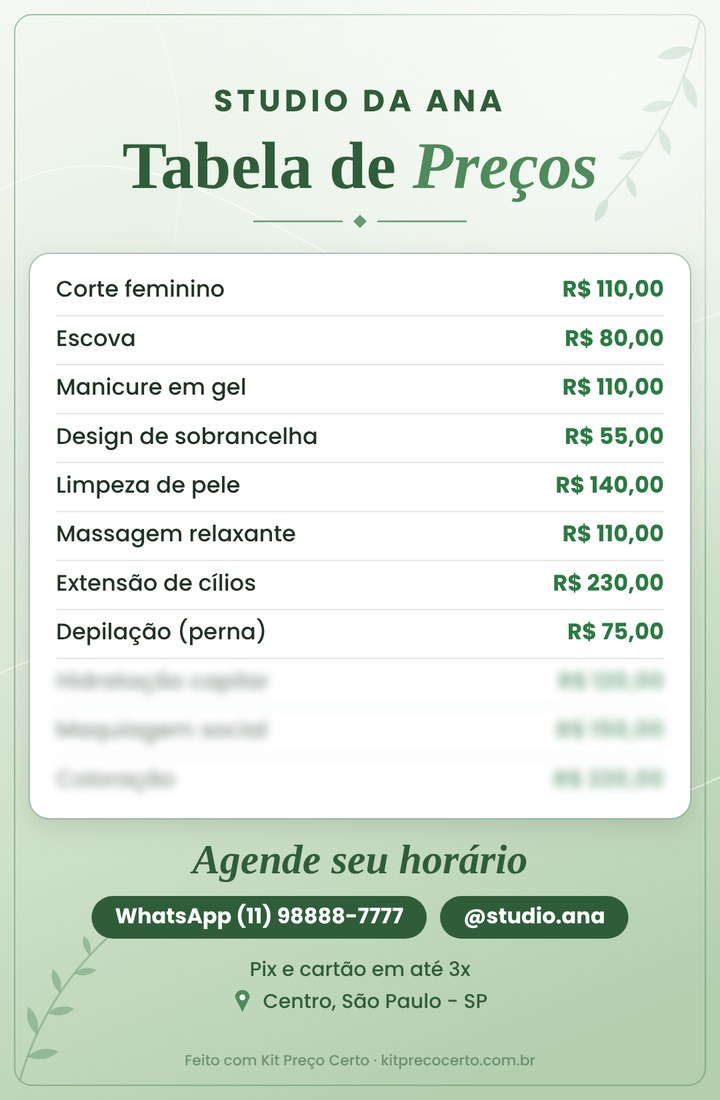
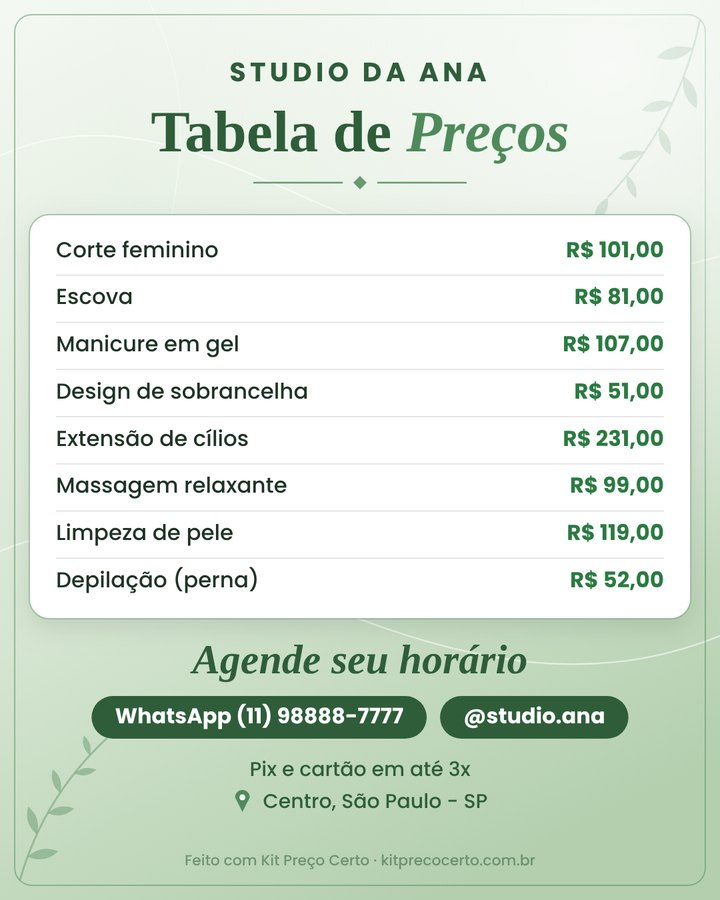
Tabelas de exemplo geradas pela propria calculadora (formato Feed), sem servicos borrados
Claude-Session: https://claude.ai/code/session_01VVXSWQenri3WwETC67snQx

diff --git a/index.html b/index.html
@@ -6,7 +6,7 @@
 <link rel="icon" type="image/png" href="favicon.png"><link rel="apple-touch-icon" href="apple-touch-icon.png">
 <link rel="preconnect" href="https://fonts.googleapis.com"><link rel="preconnect" href="https://fonts.gstatic.com" crossorigin>
 <link href="https://fonts.googleapis.com/css2?family=Fredoka:wght@600;700&family=Poppins:wght@400;500;600;700;800&family=Dancing+Script:wght@700&display=swap" rel="stylesheet">
-<link rel="stylesheet" href="style.css?v=127">
+<link rel="stylesheet" href="style.css?v=128">
 <script>document.documentElement.className+=' js';</script><script>try{if(/[?&]ignorar=1/.test(location.search))localStorage.setItem("umami.disabled","1");if(/[?&]ignorar=0/.test(location.search))localStorage.removeItem("umami.disabled")}catch(e){}</script>
 <script defer src="https://stats.kitprecocerto.com.br/script.js" data-website-id="849c7c60-d34a-4f54-abd3-b72d5e8b705a"></script>
 </head><body>
@@ -94,7 +94,7 @@
     <div class="deliver">
     <figure class="hero-tab" id="tp" aria-label="Exemplos da imagem da tabela de preços que a calculadora gera (valores de exemplo)">
       <p class="ex-bar">✨ Exemplo: coloque os <b>seus</b> serviços</p>
-      <div class="tp-stage"><img src="tab-rosa.jpg?v=4" width="720" height="1100" alt="Tabela de preços no estilo Rosa, com serviços e valores de exemplo" class="on"><img src="tab-vinho.jpg?v=4" width="720" height="1100" alt="Tabela de preços no estilo Vinho e dourado, com serviços e valores de exemplo" class="" loading="lazy"><img src="tab-preto.jpg?v=4" width="720" height="1100" alt="Tabela de preços no estilo Preto e dourado, com serviços e valores de exemplo" class="" loading="lazy"><img src="tab-lilas.jpg?v=4" width="720" height="1100" alt="Tabela de preços no estilo Lilás, com serviços e valores de exemplo" class="" loading="lazy"><img src="tab-verde.jpg?v=4" width="720" height="1100" alt="Tabela de preços no estilo Verde sálvia, com serviços e valores de exemplo" class="" loading="lazy"><img src="tab-nude.jpg?v=4" width="720" height="1100" alt="Tabela de preços no estilo Nude, com serviços e valores de exemplo" class="" loading="lazy"></div>
+      <div class="tp-stage"><img src="tab-rosa.jpg?v=5" width="720" height="900" alt="Tabela de preços no estilo Rosa, com serviços e valores de exemplo" class="on"><img src="tab-vinho.jpg?v=5" width="720" height="900" alt="Tabela de preços no estilo Vinho e dourado, com serviços e valores de exemplo" class="" loading="lazy"><img src="tab-preto.jpg?v=5" width="720" height="900" alt="Tabela de preços no estilo Preto e dourado, com serviços e valores de exemplo" class="" loading="lazy"><img src="tab-lilas.jpg?v=5" width="720" height="900" alt="Tabela de preços no estilo Lilás, com serviços e valores de exemplo" class="" loading="lazy"><img src="tab-verde.jpg?v=5" width="720" height="900" alt="Tabela de preços no estilo Verde sálvia, com serviços e valores de exemplo" class="" loading="lazy"><img src="tab-nude.jpg?v=5" width="720" height="900" alt="Tabela de preços no estilo Nude, com serviços e valores de exemplo" class="" loading="lazy"></div>
       <div class="tp-dots" role="radiogroup" aria-label="Escolha o estilo da tabela"><span class="tp-d on" role="radio" tabindex="0" aria-checked="true" aria-label="Estilo Rosa" data-i="0" style="background:linear-gradient(135deg,#FBD3E2,#E91E78)"></span><span class="tp-d" role="radio" tabindex="0" aria-checked="false" aria-label="Estilo Vinho e dourado" data-i="1" style="background:linear-gradient(135deg,#8a1a50,#f6d27a)"></span><span class="tp-d" role="radio" tabindex="0" aria-checked="false" aria-label="Estilo Preto e dourado" data-i="2" style="background:linear-gradient(135deg,#211a1f,#e7c27d)"></span><span class="tp-d" role="radio" tabindex="0" aria-checked="false" aria-label="Estilo Lilás" data-i="3" style="background:linear-gradient(135deg,#E5CBF2,#8e44ad)"></span><span class="tp-d" role="radio" tabindex="0" aria-checked="false" aria-label="Estilo Verde sálvia" data-i="4" style="background:linear-gradient(135deg,#D8E7D4,#4f8a5b)"></span><span class="tp-d" role="radio" tabindex="0" aria-checked="false" aria-label="Estilo Nude" data-i="5" style="background:linear-gradient(135deg,#F1DEC8,#b0693f)"></span></div>
       <p class="tp-name" id="tpn">Estilo: Rosa</p>
       <figcaption><b>Serviços de exemplo.</b> Os seus entram na calculadora.</figcaption>
@@ -123,7 +123,7 @@
       <div class="duo-ic"><svg viewBox="0 0 24 24" fill="none" stroke="currentColor" stroke-width="1.8" stroke-linecap="round" stroke-linejoin="round"><rect x="7" y="2.5" width="10" height="19" rx="2.5"/><path d="M11 18.5h2"/></svg></div>
       <h3>Calculadora no celular</h3>
       <p>Descubra o preço certo de cada serviço e transforme em uma tabela bonita, pronta para divulgar.</p>
-      <div class="duo-thumbs" aria-hidden="true"><img src="tab-rosa.jpg?v=4" width="720" height="1100" alt="" loading="lazy"><img src="tab-vinho.jpg?v=4" width="720" height="1100" alt="" loading="lazy"><img src="tab-nude.jpg?v=4" width="720" height="1100" alt="" loading="lazy"><span>6 estilos de cor</span></div>
+      <div class="duo-thumbs" aria-hidden="true"><img src="tab-rosa.jpg?v=5" width="720" height="900" alt="" loading="lazy"><img src="tab-vinho.jpg?v=5" width="720" height="900" alt="" loading="lazy"><img src="tab-nude.jpg?v=5" width="720" height="900" alt="" loading="lazy"><span>6 estilos de cor</span></div>
       <ul>
         <li>Calcula o preço de cada serviço, com lucro</li>
         <li>Você escolhe a cor e coloca o seu nome, Instagram e WhatsApp</li>

diff --git a/style.css b/style.css
@@ -689,7 +689,7 @@ button:not(.peek-tabs button):not(.peek-tabs *):active,.btn:not(.s):not(.o):not(
 
 /* ===== v28: carrossel de estilos da tabela ===== */
 .hero-tab{max-width:320px;padding-bottom:4px}
-.tp-stage{position:relative;aspect-ratio:720/1100;background:#fde7f0}
+.tp-stage{position:relative;aspect-ratio:720/900;background:#fde7f0}
 .tp-stage img{position:absolute;inset:0;width:100%;height:100%;object-fit:cover;opacity:0;transition:opacity .6s ease}
 .tp-stage img.on{opacity:1}
 .tp-dots{display:flex;justify-content:center;gap:12px;margin:12px 0 2px}
@@ -870,7 +870,7 @@ body:has(.count) .count{text-align:center}
 .ob-strip{display:flex;gap:12px;overflow-x:auto;scroll-snap-type:x mandatory;padding:4px 20px 12px;margin:0 -20px;-webkit-overflow-scrolling:touch;scrollbar-width:none}
 .ob-strip::-webkit-scrollbar{display:none}
 .ob-strip figure{flex:none;width:128px;margin:0;scroll-snap-align:center;text-align:center}
-.ob-strip img{width:128px;height:auto;aspect-ratio:720/1100;border-radius:14px;box-shadow:0 10px 22px -10px rgba(90,18,54,.55);background:#fff;display:block}
+.ob-strip img{width:128px;height:auto;aspect-ratio:720/900;border-radius:14px;box-shadow:0 10px 22px -10px rgba(90,18,54,.55);background:#fff;display:block}
 .ob-strip figcaption{margin-top:6px;font-size:.78rem;font-weight:700;color:#5a1236}
 .ob-hint{margin:0 0 14px;text-align:center;font-size:.78rem;color:#8a1a50}
 .ob-steps{list-style:none;display:grid;grid-template-columns:repeat(3,1fr);gap:8px;margin:16px 0 8px;padding:0}
@@ -882,7 +882,7 @@ body:has(.count) .count{text-align:center}
 body:has(.count) a.btn.btn.btn.ig{background:#fff!important;color:#C2185B!important;border:1.5px solid #C2185B!important;box-shadow:none!important}
 /* v45: tabela de preços em primeiro plano; bônus em destaque secundário */
 .duo-thumbs{display:flex;align-items:center;gap:0;margin:4px 0 16px}
-.duo-thumbs img{width:64px;height:auto;aspect-ratio:720/1100;border-radius:10px;box-shadow:0 8px 16px -8px rgba(90,18,54,.6);border:2px solid #fff;margin-right:-14px;background:#fff}
+.duo-thumbs img{width:64px;height:auto;aspect-ratio:720/900;border-radius:10px;box-shadow:0 8px 16px -8px rgba(90,18,54,.6);border:2px solid #fff;margin-right:-14px;background:#fff}
 .duo-thumbs img:nth-child(1){transform:rotate(-6deg)}.duo-thumbs img:nth-child(3){transform:rotate(6deg)}
 .duo-thumbs span{margin-left:28px;font-size:.8rem;font-weight:700;color:#C2185B}
 .bonus-tag{display:inline-block;margin-bottom:10px;padding:4px 14px;border-radius:999px;background:linear-gradient(180deg,#fff8e6,#f7e2ac);border:1px solid #e8c775;color:#5a1236;font-size:.72rem;font-weight:800;letter-spacing:.08em;text-transform:uppercase}

diff --git a/obrigado.html b/obrigado.html
@@ -18,12 +18,12 @@
 <p class="ob-k">Seu celular é a ferramenta principal</p>
 <h2 class="ob-h">Escolha o estilo da sua tabela de preços</h2>
 <div class="ob-strip" aria-label="6 estilos de tabela de preços (valores de exemplo)">
-<figure><img src="tab-rosa.jpg?v=4" width="720" height="1100" alt="Estilo Rosa" loading="lazy"><figcaption>Rosa</figcaption></figure>
-<figure><img src="tab-vinho.jpg?v=4" width="720" height="1100" alt="Estilo Vinho e dourado" loading="lazy"><figcaption>Vinho</figcaption></figure>
-<figure><img src="tab-preto.jpg?v=4" width="720" height="1100" alt="Estilo Preto e dourado" loading="lazy"><figcaption>Preto</figcaption></figure>
-<figure><img src="tab-lilas.jpg?v=4" width="720" height="1100" alt="Estilo Lilás" loading="lazy"><figcaption>Lilás</figcaption></figure>
-<figure><img src="tab-verde.jpg?v=4" width="720" height="1100" alt="Estilo Verde sálvia" loading="lazy"><figcaption>Verde</figcaption></figure>
-<figure><img src="tab-nude.jpg?v=4" width="720" height="1100" alt="Estilo Nude" loading="lazy"><figcaption>Nude</figcaption></figure>
+<figure><img src="tab-rosa.jpg?v=5" width="720" height="900" alt="Estilo Rosa" loading="lazy"><figcaption>Rosa</figcaption></figure>
+<figure><img src="tab-vinho.jpg?v=5" width="720" height="900" alt="Estilo Vinho e dourado" loading="lazy"><figcaption>Vinho</figcaption></figure>
+<figure><img src="tab-preto.jpg?v=5" width="720" height="900" alt="Estilo Preto e dourado" loading="lazy"><figcaption>Preto</figcaption></figure>
+<figure><img src="tab-lilas.jpg?v=5" width="720" height="900" alt="Estilo Lilás" loading="lazy"><figcaption>Lilás</figcaption></figure>
+<figure><img src="tab-verde.jpg?v=5" width="720" height="900" alt="Estilo Verde sálvia" loading="lazy"><figcaption>Verde</figcaption></figure>
+<figure><img src="tab-nude.jpg?v=5" width="720" height="900" alt="Estilo Nude" loading="lazy"><figcaption>Nude</figcaption></figure>
 </div>
 <p class="ob-hint">Deslize para ver os 6 estilos →</p>
 <a class="btn" id="gs" href="calculadora.html" target="_blank" rel="noopener">Criar a minha tabela agora</a>

diff --git a/calculadora.html b/calculadora.html
@@ -251,8 +251,8 @@ html.lock #gate{display:block}
 <li><i><svg viewBox="0 0 24 24" aria-hidden="true"><path d="M5 12.5l4.5 4.5L19 7.5"/></svg></i><span><b>O preço certo de cada serviço, com lucro</b>e aviso na hora se algum está dando prejuízo</span></li>
 <li><i><svg viewBox="0 0 24 24" aria-hidden="true"><path d="M5 12.5l4.5 4.5L19 7.5"/></svg></i><span><b>Tabela de preços pronta para postar</b>6 estilos lindos, em Stories e Feed, com o seu nome e a sua cara</span></li>
 </ul>
-<div class="gt"><div class="th"><img src="tab-rosa.jpg?v=4" alt="" width="50" height="76"><img src="tab-vinho.jpg?v=4" alt="" width="50" height="76"><img src="tab-lilas.jpg?v=4" alt="" width="50" height="76"><img src="tab-verde.jpg?v=4" alt="" width="50" height="76"></div><span>Veja como sua tabela<br>vai ficar linda</span></div>
-<div class="gd" aria-hidden="true"><img src="tab-rosa.jpg?v=4" alt=""><img src="tab-vinho.jpg?v=4" alt=""><img src="tab-preto.jpg?v=4" alt=""><img src="tab-lilas.jpg?v=4" alt=""></div>
+<div class="gt"><div class="th"><img src="tab-rosa.jpg?v=5" alt="" width="50" height="62"><img src="tab-vinho.jpg?v=5" alt="" width="50" height="62"><img src="tab-lilas.jpg?v=5" alt="" width="50" height="62"><img src="tab-verde.jpg?v=5" alt="" width="50" height="62"></div><span>Veja como sua tabela<br>vai ficar linda</span></div>
+<div class="gd" aria-hidden="true"><img src="tab-rosa.jpg?v=5" alt=""><img src="tab-vinho.jpg?v=5" alt=""><img src="tab-preto.jpg?v=5" alt=""><img src="tab-lilas.jpg?v=5" alt=""></div>
 </div>
 <div class="gc">
 <h2>Receba o acesso agora</h2>
